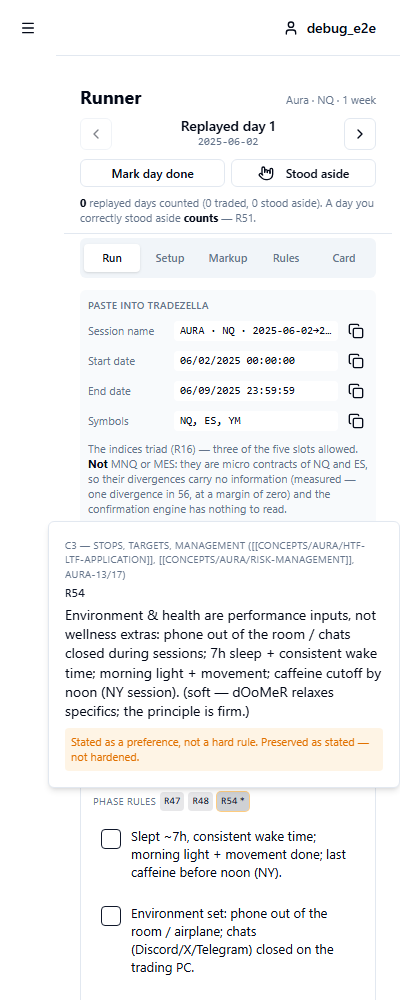
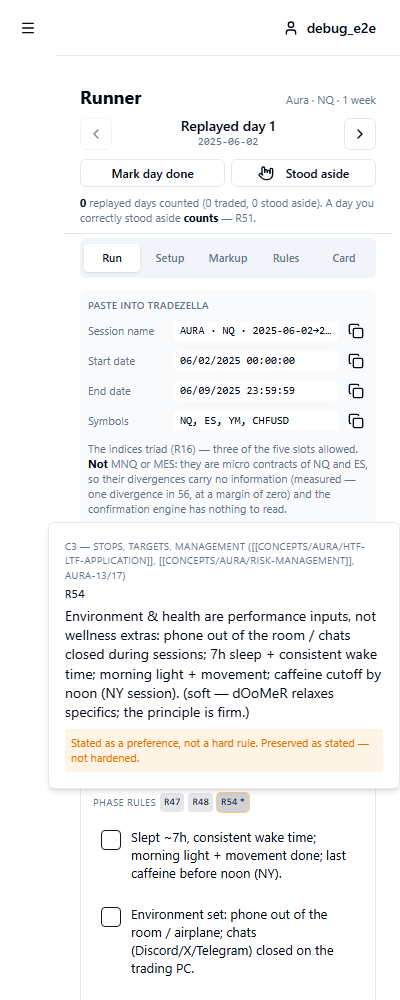
docs(aura): Aura session created — CHFUSD confirmed, quote convention verified
Session 831607 created: NQ, ES, YM, CHFUSD, strategy "Aura - Sequential
SMT (NQ triad)", 06/01/2025 -> 06/30/2025, $50,000. All four symbols load
data (311/300/301/300 bars), so no symbol is malformed.

CHFUSD EXISTS after all, and the earlier "not offered" was partly a UI
filter suppressing search results — which is also why the automated
attempts found nothing. The failure was not purely automation.

THE DIRECTION QUESTION IS SETTLED EMPIRICALLY, NOT FROM MEMORY. CHFUSD
printed 1.2139 — a franc costing $1.21, i.e. USD per CHF, which is 6S's
convention. USDCHF would have printed ~0.82. Confirmed the right leg was
chosen, by reading the price rather than reasoning about conventions.
Tradezella classes it spread_type "forex".

ALSO CORRECTED, AGAINST MY OWN EARLIER ADVICE: the 4th leg is added
ALONGSIDE the triad, never replacing YM. Verified to the primary source
after Paul challenged it — aura-15 transcript closes "that is enough
reason for me to put it on every [triad] in the system", and earlier "I
pulled up USD to Swiss Franc ALONGSIDE ... the assets in each of my
existing triads". Corroborated by aura-asset.md ("universal fourth leg ...
alongside the standard three correlated assets", "extra divergence leg",
"indices (NQ-ES-YM) triad"), README.md ("signature fourth leg ... added to
every triad"), and decisively by a real worked trade in trade-reviews.md
framed on "ES/YM retrace, NQ doesn't" — an SMT read USING YM as a
[…]

diff --git a/app/src/components/runner/session-panel.tsx b/app/src/components/runner/session-panel.tsx
@@ -127,7 +127,7 @@ export function TradezellaPaste({ state }: { state: RunnerState }) {
       <CopyRow label="Session name" value={sessionName(state.startDate, state.span)} />
       <CopyRow label="Start date" value={toTradezellaDate(state.startDate)} />
       <CopyRow label="End date" value={toTradezellaDate(end, true)} />
-      <CopyRow label="Symbols" value="NQ, ES, YM" />
+      <CopyRow label="Symbols" value="NQ, ES, YM, CHFUSD" />
       <p className="pt-0.5 text-[11px] leading-snug text-muted-foreground">
         The indices triad (R16) — three of the five slots allowed.{' '}
         <strong className="text-foreground">Not</strong> MNQ or MES: they are micro contracts of NQ
@@ -135,10 +135,11 @@ export function TradezellaPaste({ state }: { state: RunnerState }) {
         margin of zero) and the confirmation engine has nothing to read.
       </p>
       <p className="pt-0.5 text-[11px] leading-snug text-muted-foreground">
-        <strong className="text-foreground">6S</strong>, the Aura Asset, is a{' '}
-        <em>flagged</em> 4th leg (R17) and is not offered in Tradezella. Do not block on it — the
-        triad is the complete divergence set. If you substitute, note that 6S is quoted USD-per-CHF,
-        so <code>CHFUSD</code> matches and <code>USDCHF</code> is <strong>inverted</strong>.
+        <code>CHFUSD</code> stands in for <strong className="text-foreground">6S</strong>, the Aura
+        Asset — a <em>flagged</em> 4th leg (R17), added <em>alongside</em> the triad, never replacing
+        YM. 6S is quoted USD-per-CHF, and CHFUSD prints ~1.21 (a franc costs $1.21), so it matches;{' '}
+        <code>USDCHF</code> prints ~0.82 and is <strong>inverted</strong> — it would reverse every
+        divergence read.
       </p>
     </div>
   );

diff --git a/app/e2e/runner.spec.ts b/app/e2e/runner.spec.ts
@@ -103,7 +103,7 @@ test('declaring a span produces the Tradezella paste block, incl. the symbol cor
   await expect(page.getByText('AURA · NQ · 2025-06-02→2025-07-02 · 1m')).toBeVisible();
   await expect(page.getByText('06/02/2025 00:00:00')).toBeVisible();
   await expect(page.getByText('07/02/2025 23:59:59')).toBeVisible();
-  await expect(page.getByText('NQ, ES, YM')).toBeVisible();
+  await expect(page.getByText('NQ, ES, YM, CHFUSD')).toBeVisible();
 
   // The findings surfaced where they can change behaviour: the micro-contract
   // trap, and the 6S inversion trap (USDCHF moves opposite to 6S, so a
